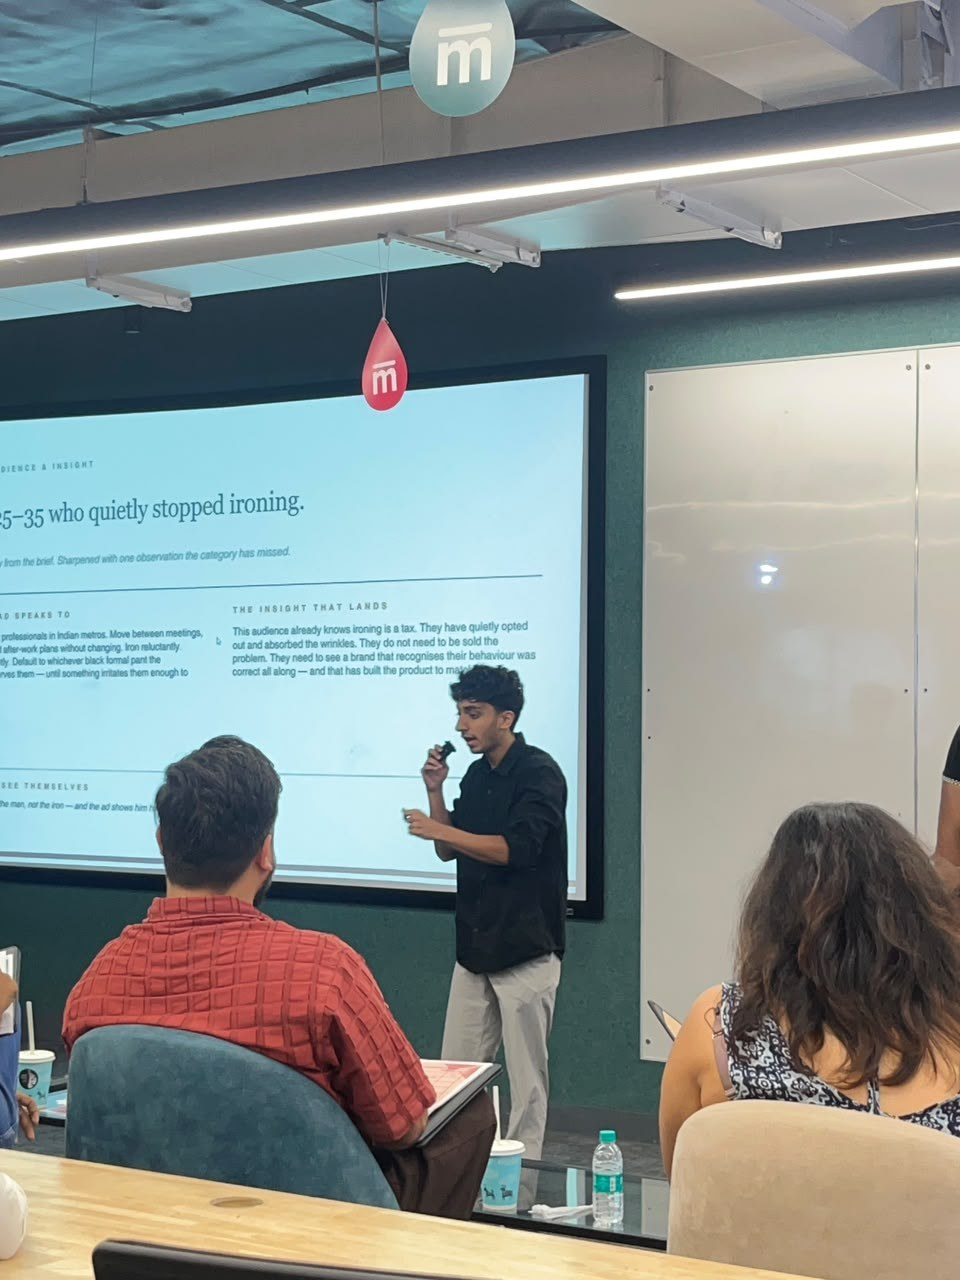
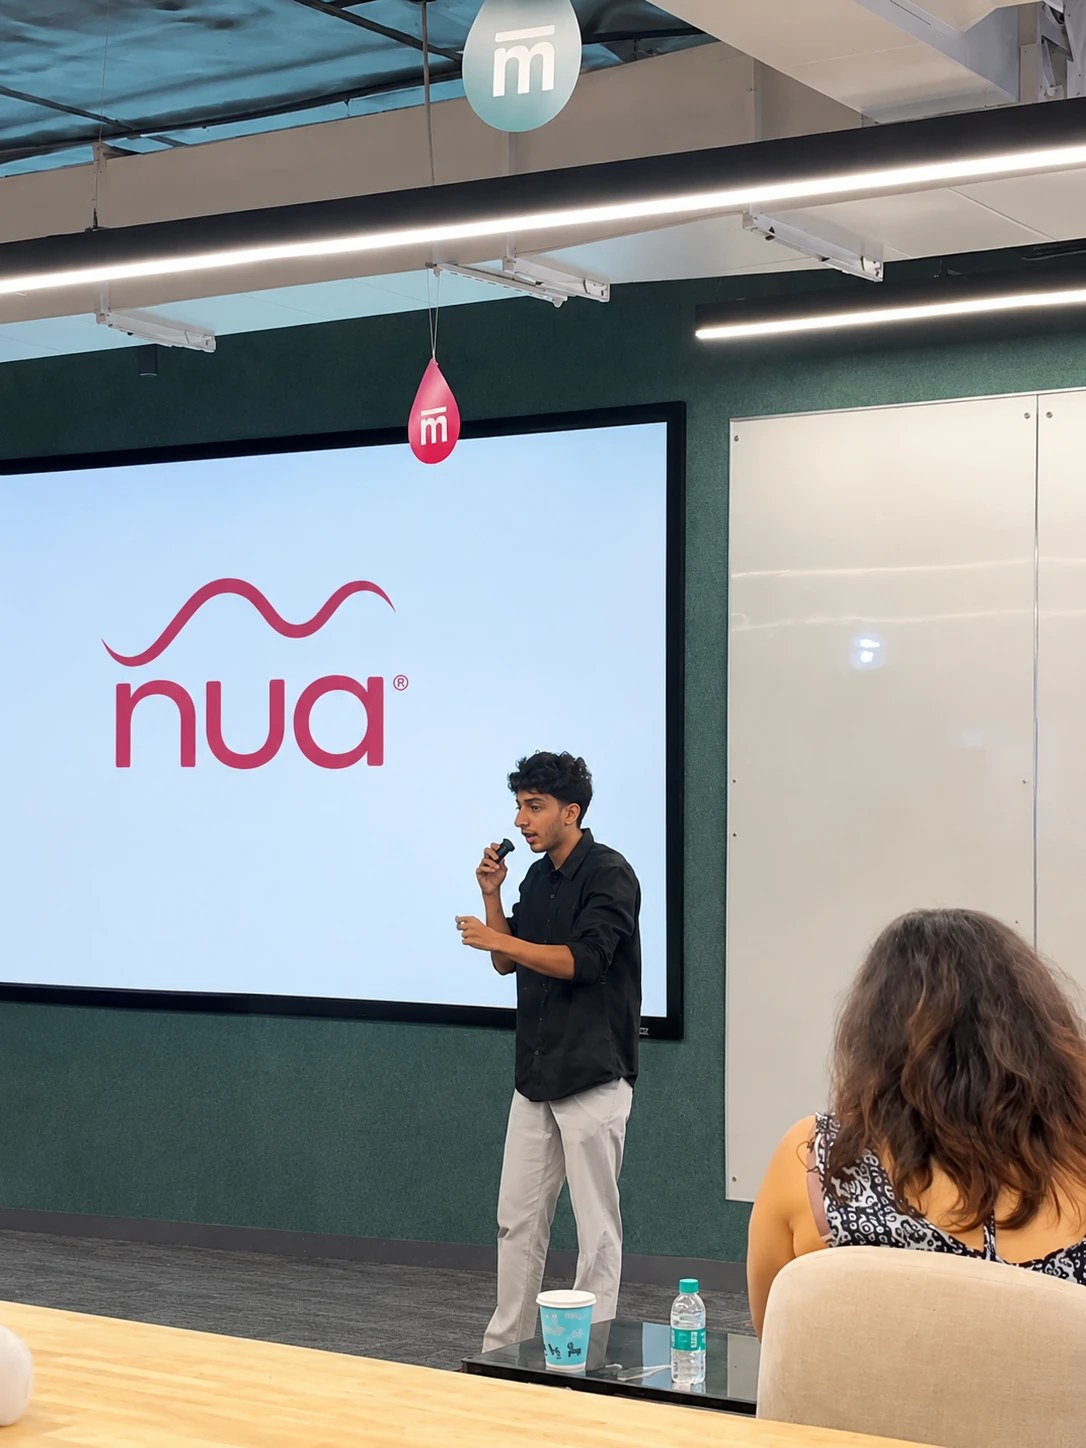
Put the actual Nua pitch on the Nua project card
Replace the photograph behind nua-pitch.jpg with the one taken during the
Nua presentation, the brand mark on the screen behind him. The file keeps its
name, which now describes what it holds.

This clears the mismatch flagged on the last change: the card was carrying a
slide from a different brief, about ironing, under a heading about sanitary
pads. Nothing on the site refers to that brief any more.

Framed at 55% again, checked against 35, 45 and 65 — it holds the whole
brand mark and him from head to waist inside the card's 16:9.

Verified at 1440 and 390: the card renders the intended crop, no broken
images, no horizontal overflow, and no console errors or warnings on any of
the eleven routes. Typecheck, lint and build pass.

Claude-Session: https://claude.ai/code/session_01EdqeTWJhsGnzutCTHzau4Y

diff --git a/data/projects.ts b/data/projects.ts
@@ -100,10 +100,10 @@ export const projects: Project[] = [
     images: [
       {
         src: "/images/nua-pitch.jpg",
-        alt: "Mufaddal presenting an audience-insight slide to a seated room",
-        width: 960,
-        height: 1280,
-        // A 9:16 portrait in a 16:9 card: hold the slide headline and him.
+        alt: "Mufaddal presenting the Nua work, the Nua brand mark on the screen behind him",
+        width: 1086,
+        height: 1448,
+        // A 9:16 portrait in a 16:9 card: hold the brand mark and him.
         focus: "center 55%",
       },
       {
